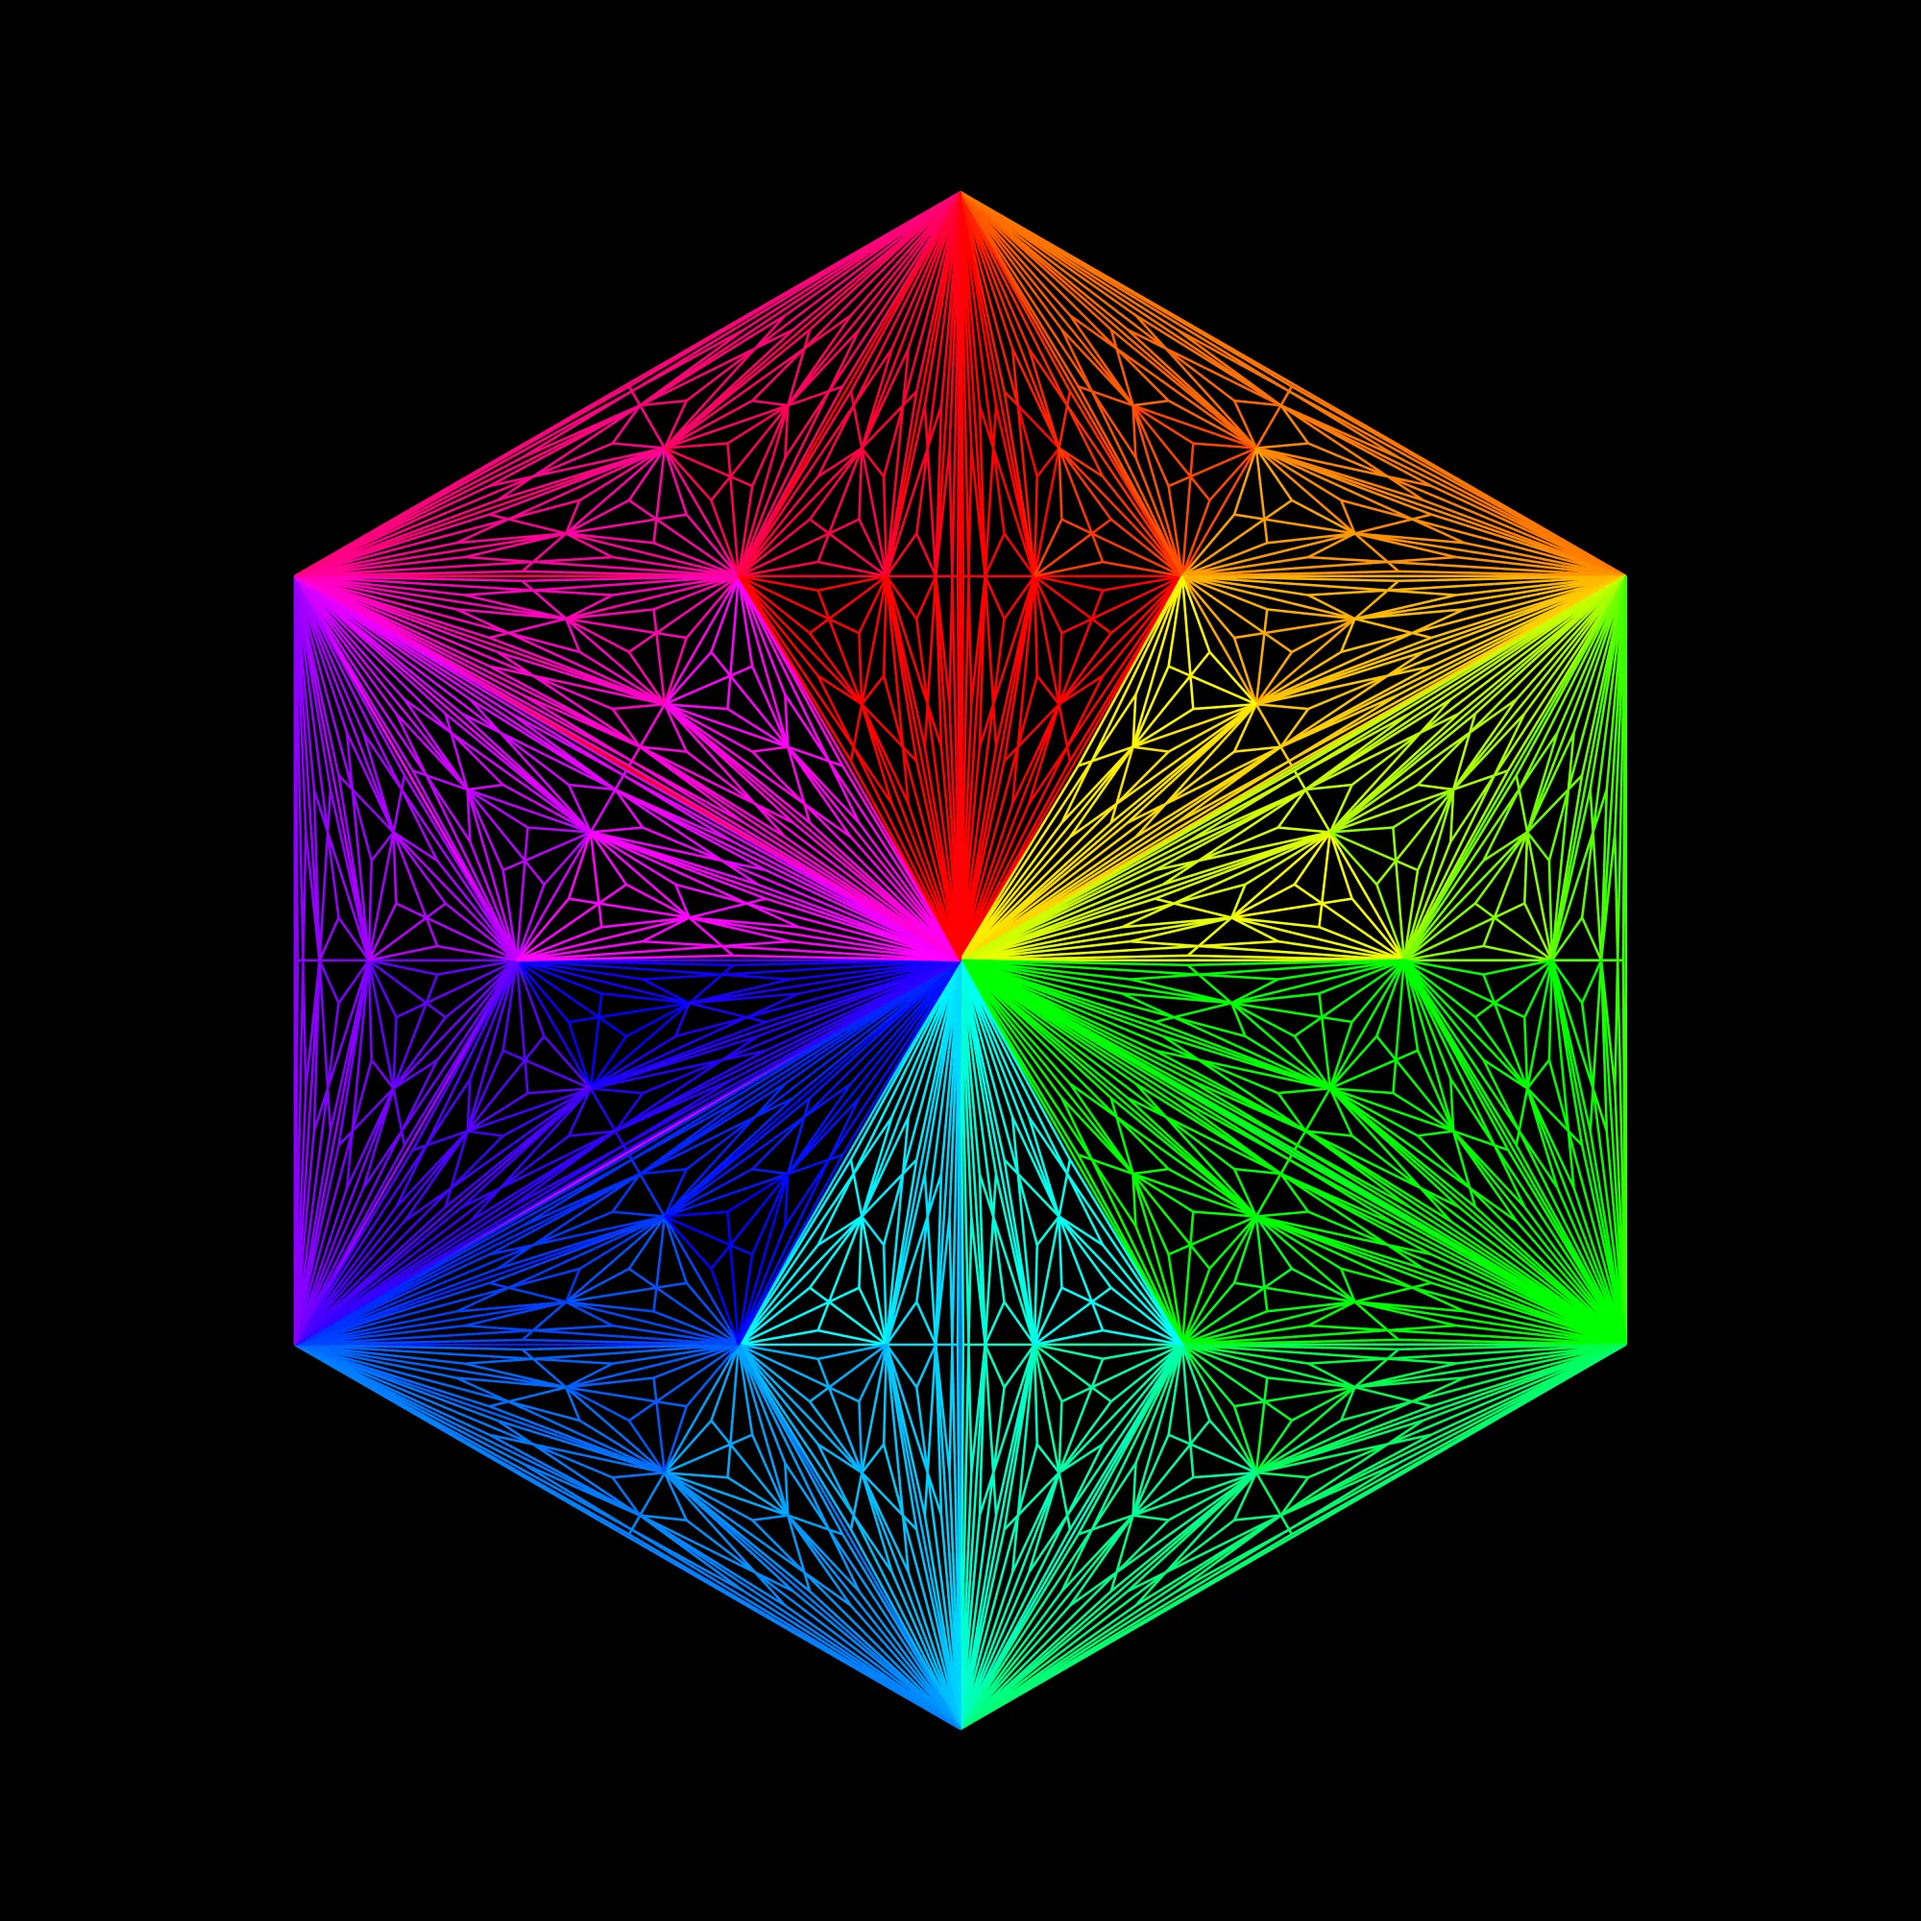
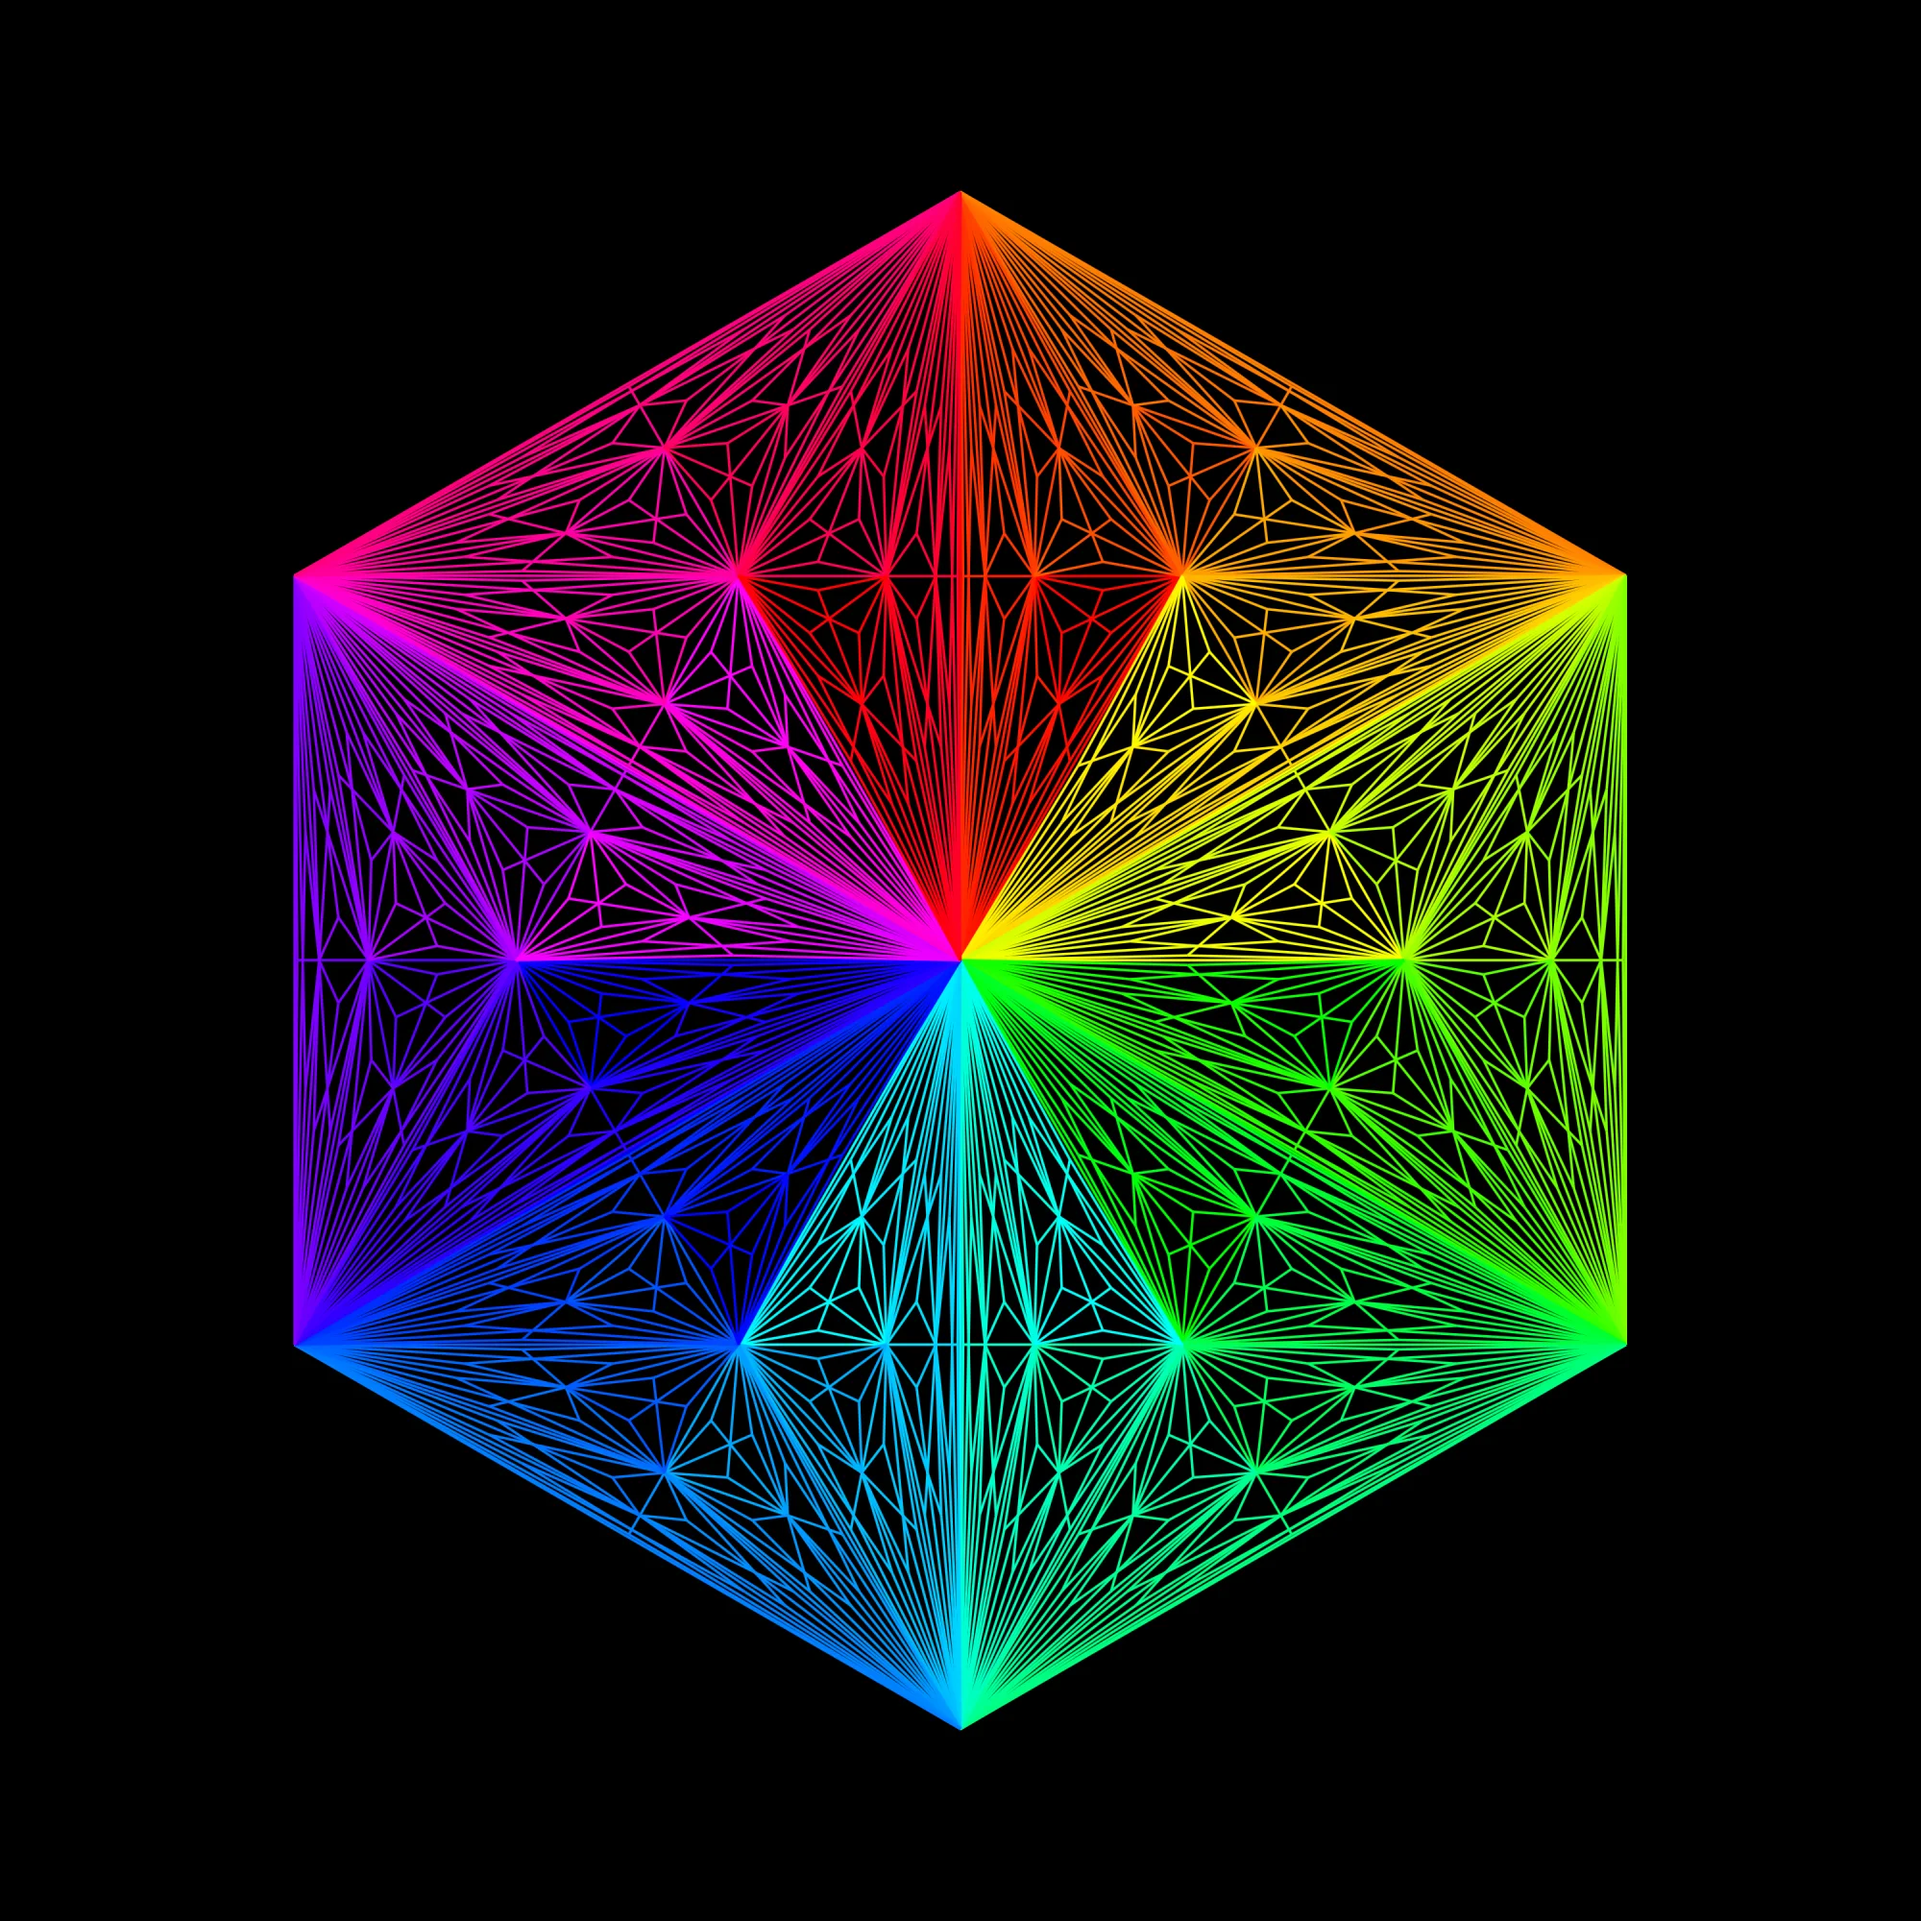
More finite subdivisions work

diff --git a/applets/finite-subdivisions/scripts/class.min.js b/applets/finite-subdivisions/scripts/class.min.js
@@ -1,1 +1,1 @@
-import{Applet}from"../../../scripts/applets/applet.min.js";import{convertColor}from"/scripts/src/browser.min.js";import{addTemporaryWorker}from"/scripts/src/main.min.js";import{Wilson}from"/scripts/wilson.min.js";class FiniteSubdivision extends Applet{resolution=1e3;numVertices=6;numIterations=5;numPreviewIterations=5;webWorker;polygons;constructor({canvas}){super(canvas);var s={renderer:"cpu",canvasWidth:this.resolution,canvasHeight:this.resolution,useDraggables:!0,draggablesMousemoveCallback:this.onDragDraggable.bind(this),draggablesTouchmoveCallback:this.onDragDraggable.bind(this),useFullscreen:!0,useFullscreenButton:!0,enterFullscreenButtonIconPath:"/graphics/general-icons/enter-fullscreen.png",exitFullscreenButtonIconPath:"/graphics/general-icons/exit-fullscreen.png",switchFullscreenCallback:()=>this.wilson.draggables.recalculateLocations()};this.wilson=new Wilson(canvas,s)}run({numVertices,numIterations}){try{this.webWorker.terminate()}catch(s){}this.numVertices=numVertices,this.numIterations=numIterations,this.resolution=3e3,this.wilson.changeCanvasSize(this.resolution,this.resolution),this.wilson.ctx.lineWidth=Math.max(10-this.numIterations,1);for(const s of this.wilson.draggables.draggables)s.remove();this.wilson.draggables.numDraggables=0,this.wilson.draggables.draggables=[],this.wilson.draggables.worldCoordinates=[],this.polygons=this.getDefaultPolygons();for(const t of this.polygons[0])this.wilson.draggables.add(...this.wilson.utils.interpolate.canvasToWorld(t[0],t[1]));this.drawPreviewPolygon()}animate(){this.wilson.ctx.fillStyle=convertColor(0,0,0),this.wilson.ctx.fillRect(0,0,this.resolution,this.resolution),this.webWorker=addTemporaryWorker("/applets/finite-subdivisions/scripts/worker.js"),this.webWorker.onmessage=e=>{this.wilson.ctx.strokeStyle=convertColor(...e.data[4]),this.wilson.ctx.beginPath(),this.wilson.ctx.moveTo(e.data[1],e.data[0]),this.wilson.ctx.lineTo(e.data[3],e.data[2]),this.wilson.ctx.stroke()},this.webWorker.postMessage([this.numVertices,this.numIterations,this.polygons])}onDragDraggable(activeDraggable,x,y){try{this.webWorker.terminate()}catch(s){}this.polygons[0][activeDraggable]=this.wilson.utils.interpolate.worldToCanvas(x,y),this.drawPreviewPolygon()}getDefaultPolygons(){var s=[[]],t=2*Math.floor(this.numVertices/2)*Math.PI/this.numVertices,o=this.resolution/2-this.resolution/2.5,t=this.resolution/2-this.resolution/2.5*Math.cos(t),o=o+(this.resolution-t),i=Math.floor(o/2+this.resolution/2.5),e=Math.floor(this.resolution/2);for(let r=0;r<this.numVertices;r++){var n=r/this.numVertices*2*Math.PI,l=Math.floor(-Math.cos(n)*this.resolution/2.5+i),n=Math.floor(Math.sin(n)*this.resolution/2.5+e);s[0].push([l,n])}return s}drawPreviewPolygon(){this.wilson.ctx.fillStyle=convertColor(0,0,0),this.wilson.ctx.fillRect(0,0,this.resolution,this.resolution);for(let o=0;o<this.numVertices;o++){var s=this.wilson.utils.hsvToRgb((2*o+1)/(2*this.numVertices),1,1);this.wilson.ctx.strokeStyle=convertColor(...s),this.wilson.ctx.beginPath(),this.wilson.ctx.moveTo(this.polygons[0][o][1],this.polygons[0][o][0]),this.wilson.ctx.lineTo(this.polygons[0][(o+1)%this.numVertices][1],this.polygons[0][(o+1)%this.numVertices][0]),this.wilson.ctx.stroke()}let t=structuredClone(this.polygons);for(let i=0;i<this.numIterations;i++)t=this.drawLines(t)}drawLines(polygons){var e=[],n=[];for(let l=0;l<polygons.length;l++){let s=0,t=0;for(let o=0;o<polygons[l].length;o++)s+=polygons[l][o][0],t+=polygons[l][o][1];s/=polygons[l].length,t/=polygons[l].length;for(let i=0;i<polygons[l].length;i++)e.push([polygons[l][i],[s,t]]),n.push([[s,t],polygons[l][i],polygons[l][(i+1)%polygons[l].length]])}for(let t=0;t<e.length;t++){var s=this.wilson.utils.hsvToRgb(t/e.length,1,1);this.wilson.ctx.strokeStyle=convertColor(...s),this.wilson.ctx.beginPath(),this.wilson.ctx.moveTo(e[t][0][1],e[t][0][0]),this.wilson.ctx.lineTo(e[t][1][1],e[t][1][0]),this.wilson.ctx.stroke()}return n}}export{FiniteSubdivision};
+import{Applet}from"../../../scripts/applets/applet.min.js";import{convertColor}from"/scripts/src/browser.min.js";import{addTemporaryWorker}from"/scripts/src/main.min.js";import{Wilson}from"/scripts/wilson.min.js";class FiniteSubdivision extends Applet{resolution=3e3;numVertices;numIterations;webWorker;polygons;constructor({canvas}){super(canvas);var s={renderer:"cpu",canvasWidth:this.resolution,canvasHeight:this.resolution,useDraggables:!0,draggablesMousemoveCallback:this.onDragDraggable.bind(this),draggablesTouchmoveCallback:this.onDragDraggable.bind(this),useFullscreen:!0,useFullscreenButton:!0,enterFullscreenButtonIconPath:"/graphics/general-icons/enter-fullscreen.png",exitFullscreenButtonIconPath:"/graphics/general-icons/exit-fullscreen.png",switchFullscreenCallback:()=>this.wilson.draggables.recalculateLocations()};this.wilson=new Wilson(canvas,s)}run({numVertices,numIterations}){try{this.webWorker.terminate()}catch(s){}if(this.numVertices!==numVertices){this.numVertices=numVertices;for(const s of this.wilson.draggables.draggables)s.remove();this.wilson.draggables.numDraggables=0,this.wilson.draggables.draggables=[],this.wilson.draggables.worldCoordinates=[],this.polygons=this.getDefaultPolygons();for(const t of this.polygons[0])this.wilson.draggables.add(...this.wilson.utils.interpolate.canvasToWorld(t[0],t[1]))}this.numIterations=numIterations,this.wilson.changeCanvasSize(this.resolution,this.resolution),this.wilson.ctx.lineWidth=Math.max(10-this.numIterations,1),this.drawPreviewPolygon()}animate(){this.wilson.ctx.fillStyle=convertColor(0,0,0),this.wilson.ctx.fillRect(0,0,this.resolution,this.resolution),this.webWorker=addTemporaryWorker("/applets/finite-subdivisions/scripts/worker.js"),this.webWorker.onmessage=e=>{this.wilson.ctx.strokeStyle=convertColor(...e.data[4]),this.wilson.ctx.beginPath(),this.wilson.ctx.moveTo(e.data[1],e.data[0]),this.wilson.ctx.lineTo(e.data[3],e.data[2]),this.wilson.ctx.stroke()},this.webWorker.postMessage([this.numVertices,this.numIterations,this.polygons])}onDragDraggable(activeDraggable,x,y){try{this.webWorker.terminate()}catch(s){}this.polygons[0][activeDraggable]=this.wilson.utils.interpolate.worldToCanvas(x,y),this.drawPreviewPolygon()}getDefaultPolygons(){var s=[[]],t=2*Math.floor(this.numVertices/2)*Math.PI/this.numVertices,o=this.resolution/2-this.resolution/2.5,t=this.resolution/2-this.resolution/2.5*Math.cos(t),o=o+(this.resolution-t),i=Math.floor(o/2+this.resolution/2.5),e=Math.floor(this.resolution/2);for(let r=0;r<this.numVertices;r++){var n=r/this.numVertices*2*Math.PI,l=Math.floor(-Math.cos(n)*this.resolution/2.5+i),n=Math.floor(Math.sin(n)*this.resolution/2.5+e);s[0].push([l,n])}return s}drawPreviewPolygon(){this.wilson.ctx.fillStyle=convertColor(0,0,0),this.wilson.ctx.fillRect(0,0,this.resolution,this.resolution);for(let o=0;o<this.numVertices;o++){var s=this.wilson.utils.hsvToRgb((2*o+1)/(2*this.numVertices),1,1);this.wilson.ctx.strokeStyle=convertColor(...s),this.wilson.ctx.beginPath(),this.wilson.ctx.moveTo(this.polygons[0][o][1],this.polygons[0][o][0]),this.wilson.ctx.lineTo(this.polygons[0][(o+1)%this.numVertices][1],this.polygons[0][(o+1)%this.numVertices][0]),this.wilson.ctx.stroke()}let t=structuredClone(this.polygons);for(let i=0;i<this.numIterations;i++)t=this.drawLines(t)}drawLines(polygons){var e=[],n=[];for(let l=0;l<polygons.length;l++){let s=0,t=0;for(let o=0;o<polygons[l].length;o++)s+=polygons[l][o][0],t+=polygons[l][o][1];s/=polygons[l].length,t/=polygons[l].length;for(let i=0;i<polygons[l].length;i++)e.push([polygons[l][i],[s,t]]),n.push([[s,t],polygons[l][i],polygons[l][(i+1)%polygons[l].length]])}for(let t=0;t<e.length;t++){var s=this.wilson.utils.hsvToRgb(t/e.length,1,1);this.wilson.ctx.strokeStyle=convertColor(...s),this.wilson.ctx.beginPath(),this.wilson.ctx.moveTo(e[t][0][1],e[t][0][0]),this.wilson.ctx.lineTo(e[t][1][1],e[t][1][0]),this.wilson.ctx.stroke()}return n}}export{FiniteSubdivision};

diff --git a/applets/finite-subdivisions/scripts/class.js b/applets/finite-subdivisions/scripts/class.js
@@ -5,11 +5,10 @@ import { Wilson } from "/scripts/wilson.js";
 
 export class FiniteSubdivision extends Applet
 {
-	resolution = 1000;
+	resolution = 3000;
 
-	numVertices = 6;
-	numIterations = 5;
-	numPreviewIterations = 5;
+	numVertices;
+	numIterations;
 
 	webWorker;
 	polygons;
@@ -56,36 +55,36 @@ export class FiniteSubdivision extends Applet
 		try {this.webWorker.terminate();}
 		catch(ex) {/* No web worker */}
 
-		this.numVertices = numVertices;
-		this.numIterations = numIterations;
+		if (this.numVertices !== numVertices)
+		{
+			this.numVertices = numVertices;
+			
+			for (const draggable of this.wilson.draggables.draggables)
+			{
+				draggable.remove();
+			}
 
-		this.resolution = 3000;
+			this.wilson.draggables.numDraggables = 0;
+			this.wilson.draggables.draggables = [];
+			this.wilson.draggables.worldCoordinates = [];
+
+			this.polygons = this.getDefaultPolygons();
+
+			for (const vertex of this.polygons[0])
+			{
+				this.wilson.draggables.add(
+					...this.wilson.utils.interpolate.canvasToWorld(vertex[0], vertex[1])
+				);
+			}
+		}
+
+		this.numIterations = numIterations;
 
 
 
 		this.wilson.changeCanvasSize(this.resolution, this.resolution);
 
 		this.wilson.ctx.lineWidth = Math.max(10 - this.numIterations, 1);
-
-
-
-		for (const draggable of this.wilson.draggables.draggables)
-		{
-			draggable.remove();
-		}
-
-		this.wilson.draggables.numDraggables = 0;
-		this.wilson.draggables.draggables = [];
-		this.wilson.draggables.worldCoordinates = [];
-
-		this.polygons = this.getDefaultPolygons();
-
-		for (const vertex of this.polygons[0])
-		{
-			this.wilson.draggables.add(
-				...this.wilson.utils.interpolate.canvasToWorld(vertex[0], vertex[1])
-			);
-		}
 
 		this.drawPreviewPolygon();
 	}
